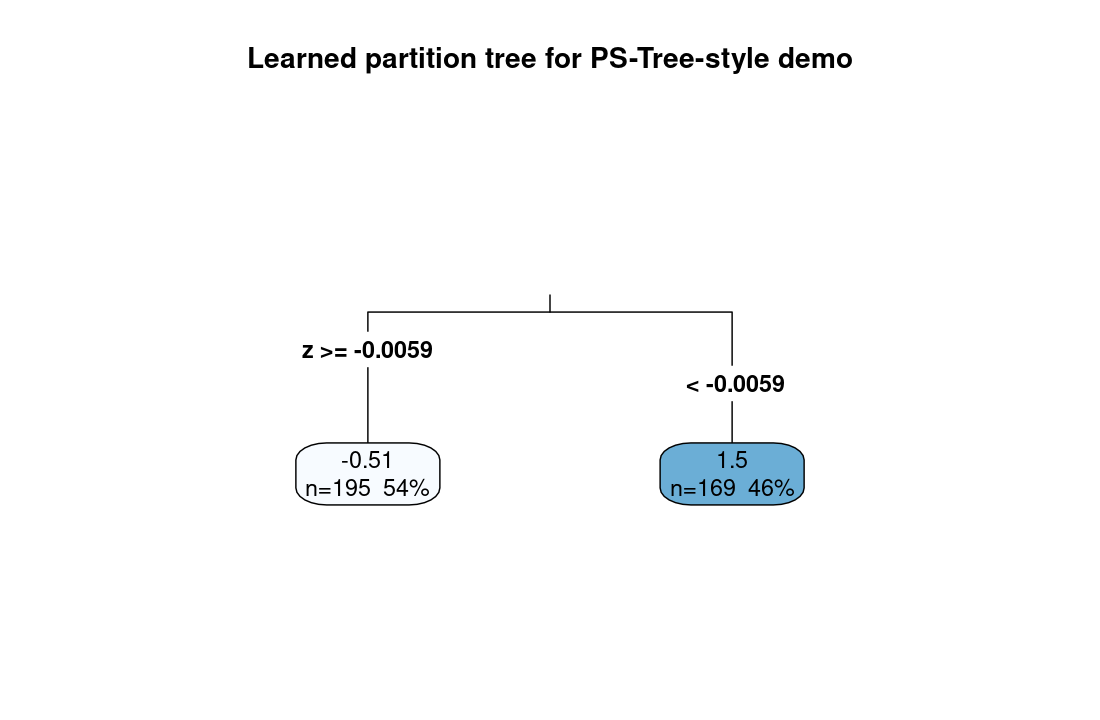
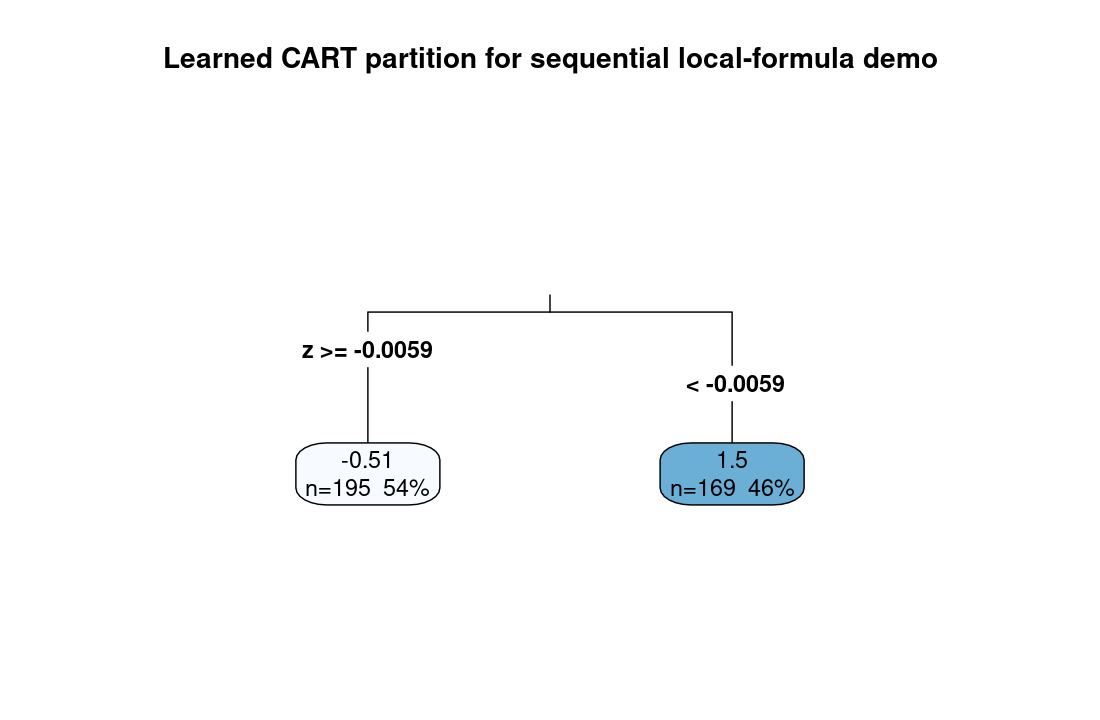
Correct PS-Tree demo interpretation

Changed region(s): [[0.4327, 0.0611, 0.8655, 0.1222], [0.1236, 0.0611, 0.34, 0.0917]]

diff --git a/00-Inbox/從單一公式到分段公式：Piecewise Symbolic Regression 與 PS-Tree.md b/00-Inbox/從單一公式到分段公式：Piecewise Symbolic Regression 與 PS-Tree.md
@@ -63,7 +63,7 @@ $$
 
 1. **預先指定分區**：例如已知年齡閾值，手動切割。缺點是需要先驗知識。
 2. **先分群再擬合**：用 clustering 分群，再在各群內做 symbolic regression。缺點是分群和擬合是獨立的，分群可能不是依據「擬合效果」來優化。
-3. ** jointly 優化分區與公式**：這就是 PS-Tree 的策略。
+3. **共同優化分區與公式**：PS-Tree 的精神是讓分區和 local symbolic model 互相影響；但要注意，它不是單純用 BIC 去逐一比較每個候選切點。
 
 ---
 
@@ -77,19 +77,20 @@ PS-Tree（Piecewise Symbolic Tree）的核心直覺來自決策樹：**用樹的
 
 > 決策樹的分類/回歸能力 + Symbolic Regression 的可解釋公式 = PS-Tree
 
-### 流程
+### 流程（修正版）
 
-PS-Tree 的建構流程可以簡化為：
+更精確地說，PS-Tree 不是單純「先建好一棵 decision tree，再在葉節點做 symbolic regression」，也不是每次切分都用 BIC 比較 symbolic model 的改善量。
 
-1. **根節點初始化**：在整個資料集上做一次 symbolic regression，得到初始公式 $f_0$
-2. **分區搜尋**：評估每個候選切割變數與切割點（如 $x_j \leq t$），將資料分成左右兩子集
-3. **分區評估**：在兩個子集上分別重新擬合 symbolic formula，計算整體擬合改善量
-4. **選擇最佳切割**：選擇帶來最大改善的切割，建立分支
-5. **遞迴**：對每個子節點重複步驟 2–4，直到停止條件滿足（如改善量太小、子集太小、深度限制）
-6. **結果**：一棵樹，每個葉節點存放一個簡單 symbolic formula
+以 Zhang et al. (2022) 的 PS-Tree 與官方實作概念來看，它是 **decision-tree partition + Genetic Programming symbolic regression 的互相適應框架**：
+
+1. **初始分區**：先用 tree / clustering 等方式產生初始 partition。
+2. **Local symbolic modeling**：在目前 partition 下，用 GP 搜尋 symbolic features / local symbolic regressors。
+3. **樣本重新指派**：根據每個樣本在哪個 local model 下 residual / loss 較小，把樣本指派給較適合的 local model。
+4. **更新 partition boundary**：用 decision tree / classifier 學出能重現這些指派的切分邊界。
+5. **反覆適應**：symbolic models 與 partition 互相調整，最後得到一棵 tree + leaf-level symbolic expressions。
 
 > [!info] 與一般 Regression Tree 的差別
-> 一般 regression tree（如 CART）的葉節點只存常數或簡單平均。PS-Tree 的葉節點存的是一個 symbolic expression，可以捕捉更豐富的局部結構。
+> 一般 regression tree（如 CART）的葉節點只存常數或簡單平均。PS-Tree 的葉節點存的是 symbolic expression；而且在完整 PS-Tree 裡，partition 會受到 local symbolic model 的 loss 指派影響，不只是一次性的 CART split。
 
 用 Mermaid 圖來看整體結構：
 
@@ -102,9 +103,11 @@ graph TD
     D -->|No| F["葉節點: f₃(x) = d·x₂² + e"]
 ```
 
-### 為什麼 jointly 優化很重要
+### 為什麼共同優化很重要
 
-如果分區和擬合是分開做的（先 cluster 再 fit），分區的目標通常是資料本身的距離或密度結構，和最終擬合效果沒有直接關係。PS-Tree 的切割判準是基於==擬合改善==，所以分區本身就是為了「讓每段的公式更好」而設計的。
+如果分區和擬合是分開做的（先 cluster / tree 再 fit），分區的目標通常是資料本身的距離、密度，或 response variance，和最終 local symbolic formula 的好壞不一定一致。PS-Tree 想解的是這個耦合問題：**哪些樣本應該同屬一段，取決於哪個 local symbolic model 能最好描述它們；而 local symbolic model 的品質又取決於目前分區。**
+
+所以 PS-Tree 的重點不是「切點用 BIC」這件事，而是讓 tree partition 與 GP symbolic models 互相適應。這點要和今天 demo 的簡化做法分開看。
 
 ---
 
@@ -127,7 +130,7 @@ MOB（Zeileis et al., 2008）的邏輯是：
 | ----- | ----------------- | ---------------------- |
 | 葉節點模型 | 參數模型（線性、GLM 等）    | Symbolic expression    |
 | 參數估計  | M-estimation / ML | Symbolic regression 搜尋 |
-| 切割判準  | 參數不穩定性檢定          | 擬合改善量                  |
+| 切割判準  | 參數不穩定性檢定          | loss-driven adaptive partition / tree criterion；不是 BIC split |
 | 可解釋性  | 限於預設模型族           | 公式形式自由，可能更簡潔           |
 
 ### 連結到 Subgroup Analysis 與 NARM-UDRF
@@ -153,12 +156,14 @@ PS-Tree 把同樣的精神帶入 symbolic regression 的世界：
 
 也就是說，若硬用一條 global formula 來 fit 全部資料，模型會被迫在兩種不同機制之間取平均；piecewise symbolic regression / PS-Tree 的目標則是先找出分區，再在每個 leaf 裡 fit 比較簡單的 local formula。
 
-> [!note] Demo 定位
-> 這份 R demo 是教學版 **PS-Tree-style approximation**，不是官方 PS-Tree 演算法完整重現。兩層都有簡化：
-> - **葉節點公式**：用「候選 symbolic terms + BIC stepwise selection」近似，而不是 genetic programming 搜尋
-> - **切分搜尋**：用 CART-style 窮舉切點 + BIC 改善量選最佳切分，而不是原版 PS-Tree 的 GP-based partition
+> [!note] Demo 定位（重要修正）
+> 這份 R demo 是教學版 **sequential tree + local symbolic-style formulas**，只能說是 PS-Tree intuition demo，不是官方 PS-Tree 演算法完整重現。
 >
-> 所以 demo 展示的是 PS-Tree 的「精神」（先分區再 local fit），而非原版演算法的搜尋機制。
+> 實際 R code 做的是：
+> - **先切分**：用 `rpart(y ~ z)` 建一層 CART regression tree；切分準則是 response 的 SSE / deviance reduction。
+> - **再找公式**：在每個 leaf 裡，用「候選 symbolic terms + BIC stepwise selection」近似 symbolic regression。
+>
+> 因此：**今天 demo 的切分沒有考慮 symbolic model 的 BIC 改善量；BIC 只用在 leaf formula selection。** 這個 demo 比較接近「先建 tree，再在葉節點找公式」的 baseline，用來建立直覺；完整 PS-Tree 則是 tree partition 與 GP symbolic models 互相適應。
 
 ### Demo 評估結果
 
@@ -166,14 +171,14 @@ PS-Tree 把同樣的精神帶入 symbolic regression 的世界：
 |---|---:|---:|---:|
 | Global symbolic formula | 1.9506 | 1.7080 | 0.3158 |
 | Oracle piecewise symbolic formulas | 0.3439 | 0.2635 | 0.9787 |
-| Learned PS-Tree-style formulas | 0.3439 | 0.2635 | 0.9787 |
+| Learned sequential-tree local formulas | 0.3439 | 0.2635 | 0.9787 |
 | Constant-leaf regression tree | 2.0941 | 1.7692 | 0.2114 |
 
 > [!important] 怎麼讀這張表
 > - **Global symbolic formula** 明顯失敗，因為它只能用一條公式平均兩種 regime。
 > - **Oracle piecewise** 使用真實分區，因此接近最佳可達表現。
-> - **Learned PS-Tree-style** 沒有直接知道真實 regime，但透過 tree partition 學到接近 oracle 的效果。
-> - **Constant-leaf tree** 只在 leaf 裡存平均值，沒有 local formula，所以比 global 好，但不如 PS-Tree-style。
+> - **Learned sequential-tree local formulas** 沒有直接知道真實 regime；它先用 `rpart` 學 partition，再在 leaf fit local formulas，因此接近 oracle。
+> - **Constant-leaf tree** 只在 leaf 裡存平均值，沒有 local formula；在這個資料設定下它甚至比 global formula 更差，提醒我們「有分區」不等於有好模型，真正關鍵是 leaf 裡的 local formula。
 
 ### Figure 1：資料確實有兩個不同生成機制
 
@@ -185,19 +190,19 @@ PS-Tree 把同樣的精神帶入 symbolic regression 的世界：
 
 ![[piecewise_ps_tree_prediction_curves.png]]
 
-> Global formula 會在兩個 regime 之間妥協；oracle piecewise 與 learned PS-Tree-style curves 則能貼近各 regime 的 local pattern。這就是 piecewise symbolic regression 的核心價值。
+> Global formula 會在兩個 regime 之間妥協；oracle piecewise 與 learned sequential-tree local curves 則能貼近各 regime 的 local pattern。這就是 piecewise symbolic regression 的核心價值。
 
 ### Figure 3：Held-out observed vs. predicted
 
 ![[piecewise_ps_tree_observed_vs_predicted.png]]
 
-> 點越靠近虛線代表預測越準。可以看到 global formula 分散最明顯，而 PS-Tree-style 和 oracle piecewise 明顯更靠近對角線。
+> 點越靠近虛線代表預測越準。可以看到 global formula 分散最明顯，而 sequential-tree local formulas 和 oracle piecewise 明顯更靠近對角線。
 
 ### Figure 4：學到的 partition tree
 
 ![[piecewise_ps_tree_partition_tree.png|531]]
 
-> 這棵樹就是 PS-Tree-style demo 的「先分區」部分。每個 terminal leaf 之後會各自 fit 一個 symbolic-style formula，而不是只存一個常數平均值。
+> 這棵樹就是 demo 的「先分區」部分。每個 terminal leaf 之後會各自 fit 一個 symbolic-style formula，而不是只存一個常數平均值。
 
 ---
 
@@ -207,11 +212,11 @@ PS-Tree 把同樣的精神帶入 symbolic regression 的世界：
 
 ### PS-Tree 的局限
 
-1. **搜尋空間爆炸**：PS-Tree 原始論文用 Genetic Programming 搜尋每個 leaf 的 symbolic formula，GP 本身的搜尋空間就很大；加上 tree partition 的切割點組合，整體搜尋空間是指數級。實務上很難保證找到好的解，尤其當變數多、資料維度高時。
-2. **切割與公式的耦合問題**：PS-Tree 的切割是根據「擬合改善量」來選，但擬合改善量依賴當前 leaf 裡的 symbolic formula 好壞——如果 GP 在某個 leaf 找到很差的公式，改善量的計算就不準確，導致切割判斷失誤。這是一個==雞生蛋蛋生雞==的問題。
-3. **過度擬合風險**：遞迴分裂 + 每個 leaf 獨立搜尋 formula = 很大的 model capacity。如果沒有好的正則化或 pruning 策略，容易過度擬合。
-4. **切割判準缺乏統計檢定基礎**：PS-Tree 用擬合改善量做切割，不像 MOB 用 parameter instability test（有明確的 $p$-value 和漸近理論）。這讓 PS-Tree 的切割缺乏統計保證——你不知道一個切割是「真的有意義」還是「剛好降低了 training error」。
-5. **本 demo 的簡化**：今日 demo 不只公式搜尋用 BIC stepwise 代替 GP，**切分搜尋也用 CART-style 窮舉切點 + BIC 改善量**，而非原版 PS-Tree 的 GP-based partition。所以 demo 展示的是 PS-Tree 的「精神」（先分區再 local fit），而非原版演算法的搜尋機制。
+1. **搜尋空間爆炸**：PS-Tree 用 Genetic Programming 搜尋 symbolic expressions / features，GP 本身的搜尋空間就很大；再加上 partition 也會跟著調整，整體搜尋仍然很難保證找到全域最佳解，尤其當變數多、資料維度高時。
+2. **切割與公式的耦合問題**：哪些樣本該分在一起，取決於哪個 local symbolic model 能描述它們；但 local symbolic model 的品質又取決於目前分區。這是一個==雞生蛋蛋生雞==的問題。PS-Tree 用 adaptive partition 緩解，但不等於有完整統計保證。
+3. **過度擬合風險**：tree partition + 多個 local symbolic expressions = 很大的 model capacity。如果沒有好的正則化、validation selection 或 pruning 策略，容易過度擬合。
+4. **切割判準缺乏統計檢定基礎**：PS-Tree 不像 MOB 用 parameter instability test（有明確的 $p$-value 和漸近理論）。它比較偏向 algorithmic loss / tree criterion，因此你不知道一個切割是「真的有意義」還是「剛好降低了 training error」。
+5. **本 demo 的簡化更大**：今日 demo 是 one-shot `rpart` split + leaf BIC stepwise formulas。它沒有 PS-Tree 的 adaptive GP/tree loop，也沒有 symbolic-model-BIC-guided split；所以它展示的是「分區後 local formula 會比 global formula 好」這個直覺，而不是原版搜尋機制。
 
 ### MOB 的局限（作為對照）
 
@@ -223,15 +228,15 @@ PS-Tree 把同樣的精神帶入 symbolic regression 的世界：
 | 問題 | MOB | PS-Tree | 今日 demo | Gap |
 |---|---|---|---|---|
 | Leaf model 靈活度 | 低（固定 parametric） | 高（symbolic，但 GP 搜尋困難） | 中（候選項 + BIC stepwise） | 需要一種既靈活又可穩定搜尋的 leaf model |
-| 切分搜尋 | instability test 引導 | GP-based partition | CART 窮舉切點 + BIC 改善量 | PS-Tree 原版和 demo 都缺乏統計基礎的切割判準 |
-| 切割統計保證 | 有（instability test） | 無（只有改善量） | 無（只有改善量） | 需要在 symbolic regression 情境下有統計基礎的切割判準 |
-| 高維度 / 多變數 | 受限於 model complexity | 搜尋空間爆炸 | 窮舉切點更慢 | 需要可擴展的方法 |
+| 切分搜尋 | instability test 引導 | adaptive tree partition，受 local symbolic model loss 指派影響 | one-shot `rpart(y ~ z)`，CART SSE/deviance split | 需要在 symbolic regression 情境下有統計基礎、又能和 formula search 耦合的切割判準 |
+| 切割統計保證 | 有（instability test） | 較弱（algorithmic loss/tree criterion） | 無（CART training criterion） | 需要可檢定的 heterogeneity / instability criterion |
+| 高維度 / 多變數 | 受限於 model complexity | GP + partition 搜尋空間大 | 只示範單一 split variable，未處理高維搜尋 | 需要可擴展的方法 |
 | 過度擬合控制 | pruning + test 統計量 | 弱 | 弱 | 需要更好的正則化框架 |
 
 > [!important] 給自己的研究備忘
 > PS-Tree 和 MOB 各有強項也各有弱項。一個可能的 research direction 是：結合 MOB 的統計切割判準 + PS-Tree 的 symbolic leaf model，並加上穩健的搜尋策略和正則化。這正是 DRF / mobDRF 試圖處理的方向，但也還有尚未解決的問題——後續課程會逐步展開。
 >
-> 另外要注意：本 demo 的切分搜尋（CART-style 窮舉切點）也不同於原版 PS-Tree（GP-based partition），所以 demo 展示的是「先分區再 local fit」的直覺和精神，而非原版演算法的搜尋機制。讀 MOB 原文時要特別留意 MOB 的 instability test 是怎麼決定切分變數和切分位置的——那是 PS-Tree 和 demo 都缺少的。
+> 另外要注意：本 demo 的切分搜尋是 one-shot `rpart(y ~ z)`，不是 symbolic-model-BIC-guided split，也不是原版 PS-Tree 的 adaptive GP/tree loop。所以 demo 展示的是「先分區再 local fit」的直覺，而非原版演算法。讀 MOB 原文時要特別留意 MOB 的 instability test 是怎麼決定切分變數和切分位置的——那是 PS-Tree 和 demo 都缺少的統計檢定基礎。
 
 ---
 
@@ -250,8 +255,8 @@ PS-Tree 把同樣的精神帶入 symbolic regression 的世界：
 - **實際跑 PS-Tree demo**：在遠端 server 上用 R 產生視覺化，感受「分段公式 vs 全域公式」的差異
 - **閱讀 MOB 原文**：Zeileis et al. (2008), "Model-Based Recursive Partitioning"，理解統計檢定背後的理論
 - **思考 NARM-UDRF 的定位**：PS-Tree 的 local model 是 symbolic expression；NARM-UDRF 的 local model 是 rule-based 的效應估計——兩者如何對話？
-- **觀察切割變數的選擇**：在 demo 中留意哪些變數被選為切割點，它們是否對應已知的實務知識
-- **帶著 gap 去讀 MOB**：PS-Tree 和本 demo 都沒有統計基礎的切割判準，MOB 有——讀 MOB 時特別留意：MOB 的 instability test 是怎麼決定切分變數和切分位置的？這個機制能否移植到 symbolic regression 或 rule-based 的情境？
+- **觀察切割變數的選擇**：在 demo 中留意 `rpart` 選出的切點是否對應真實 hidden regime；同時記得這不是 symbolic-model-BIC-guided split
+- **帶著 gap 去讀 MOB**：PS-Tree 和本 demo 都沒有 MOB 那種統計基礎的切割檢定，MOB 有——讀 MOB 時特別留意：MOB 的 instability test 是怎麼決定切分變數和切分位置的？這個機制能否移植到 symbolic regression 或 rule-based 的情境？
 
 ---
 
